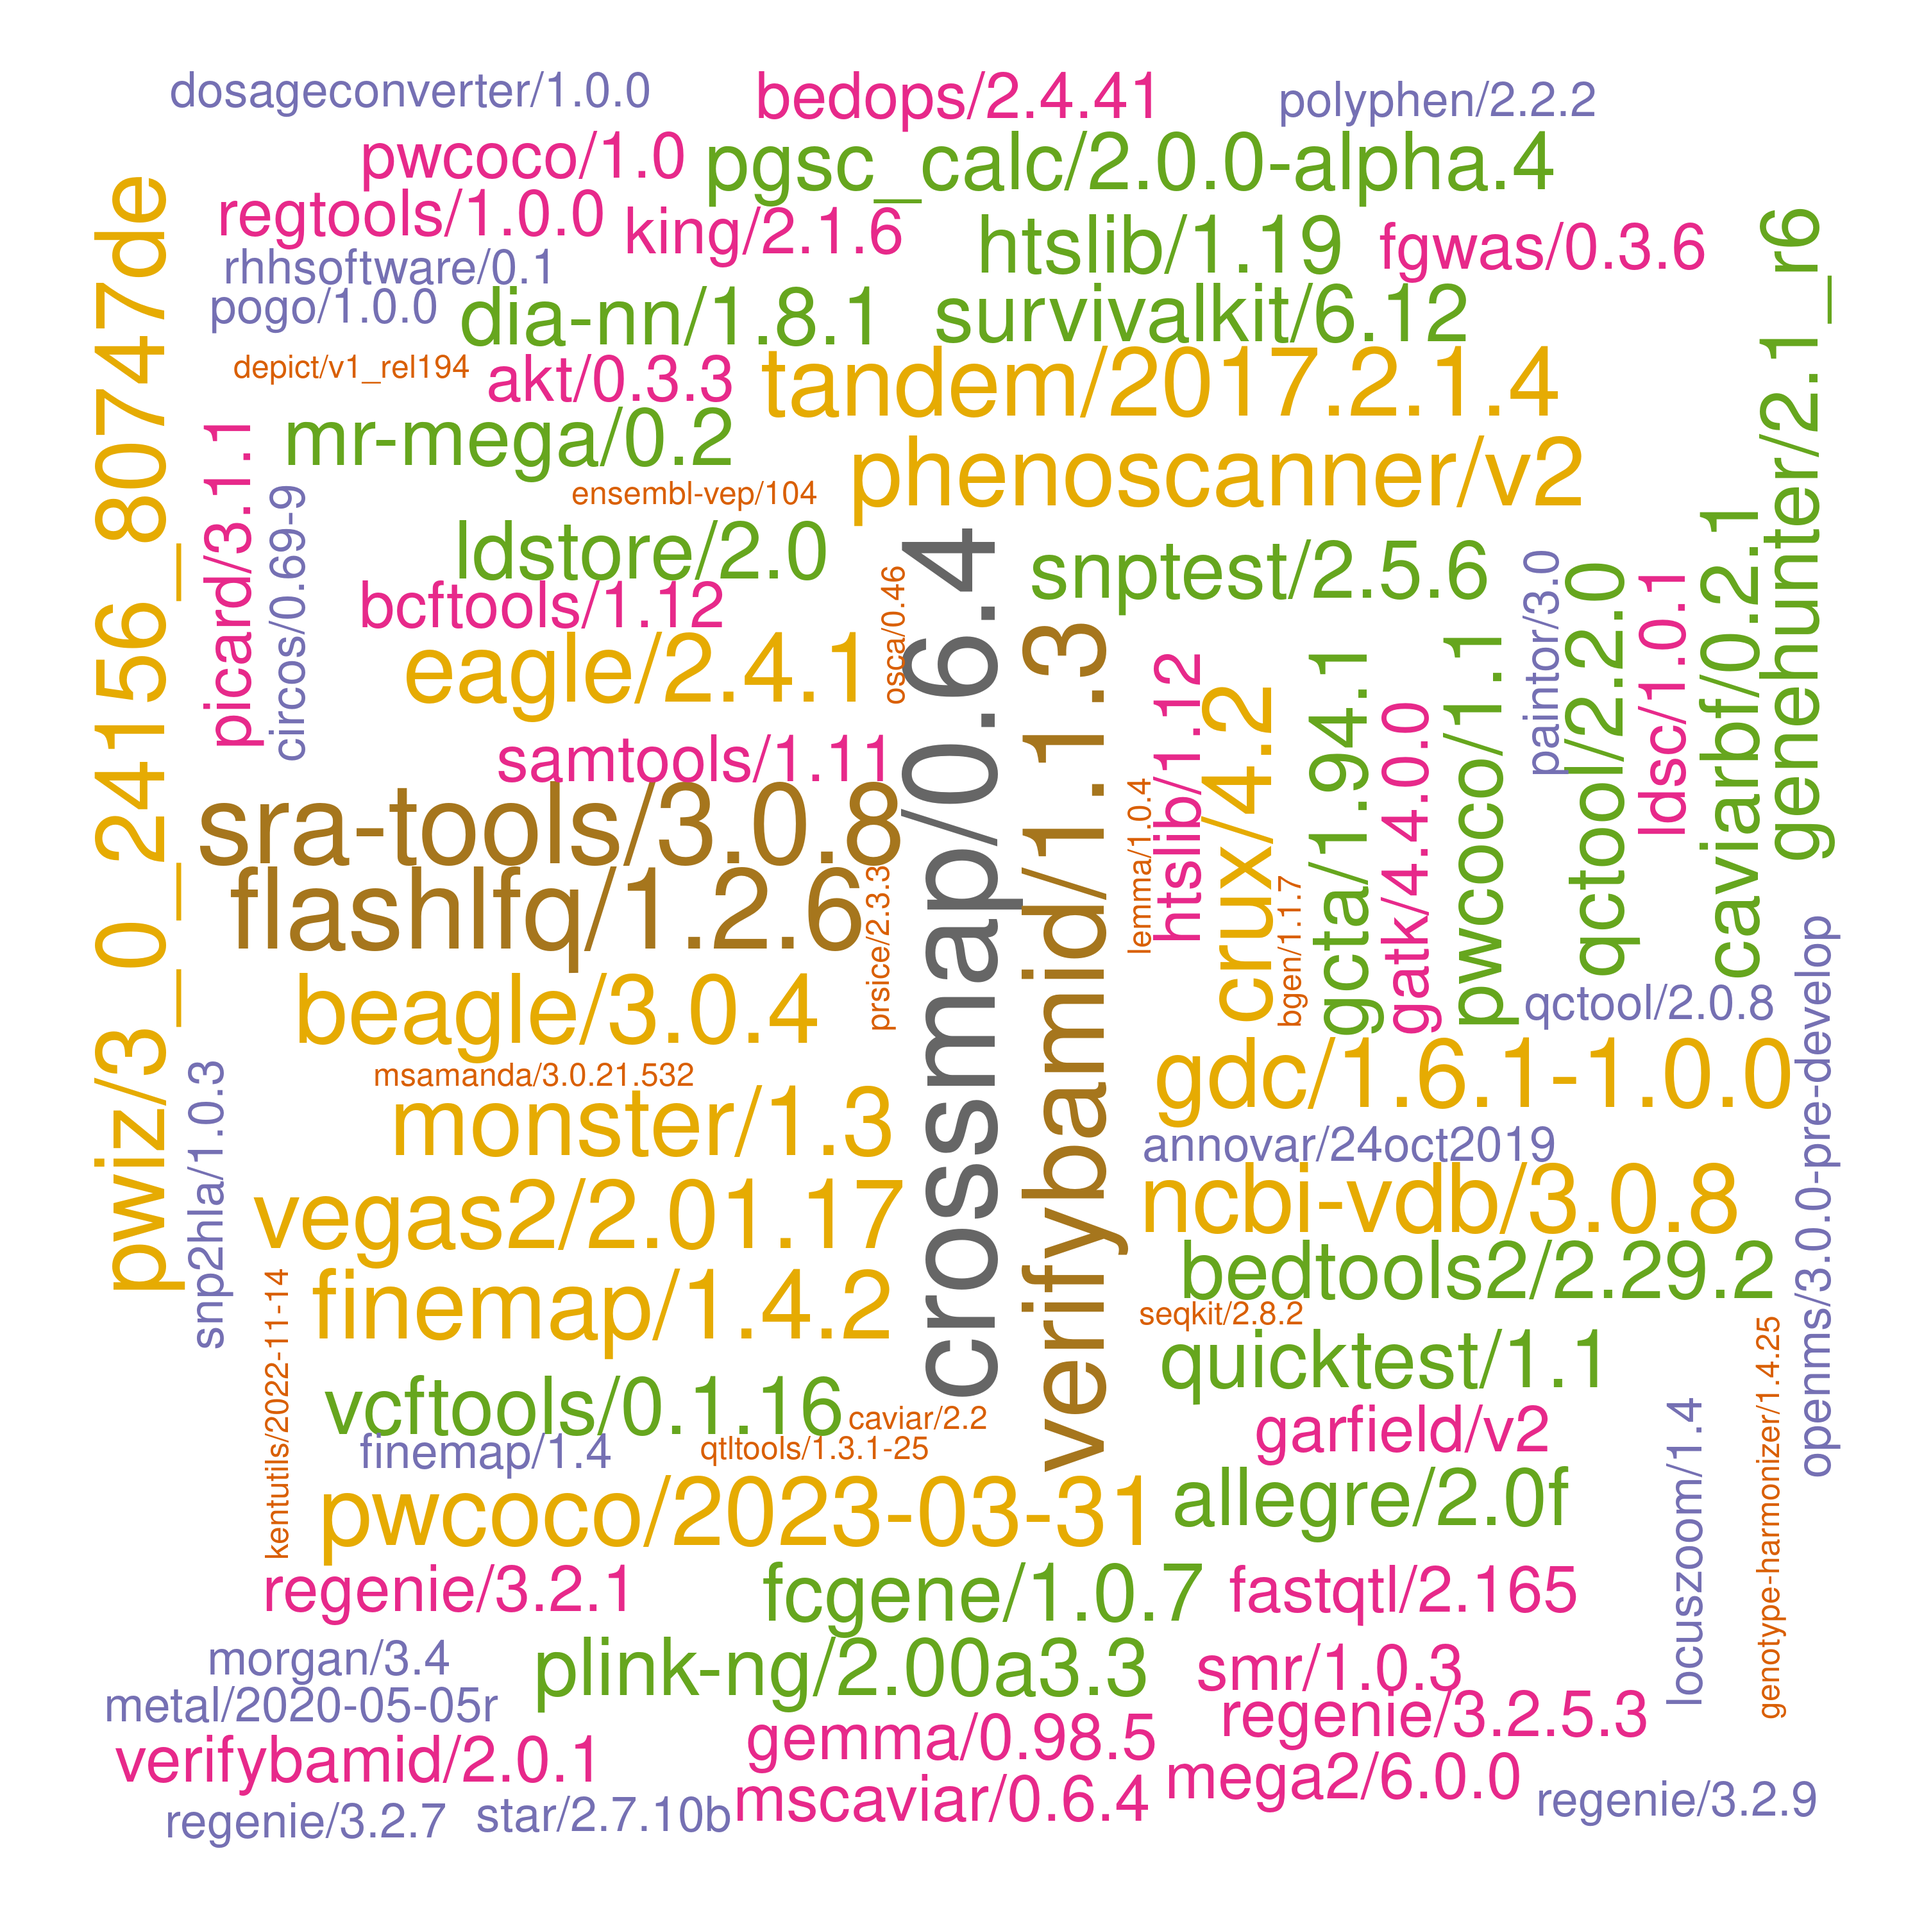
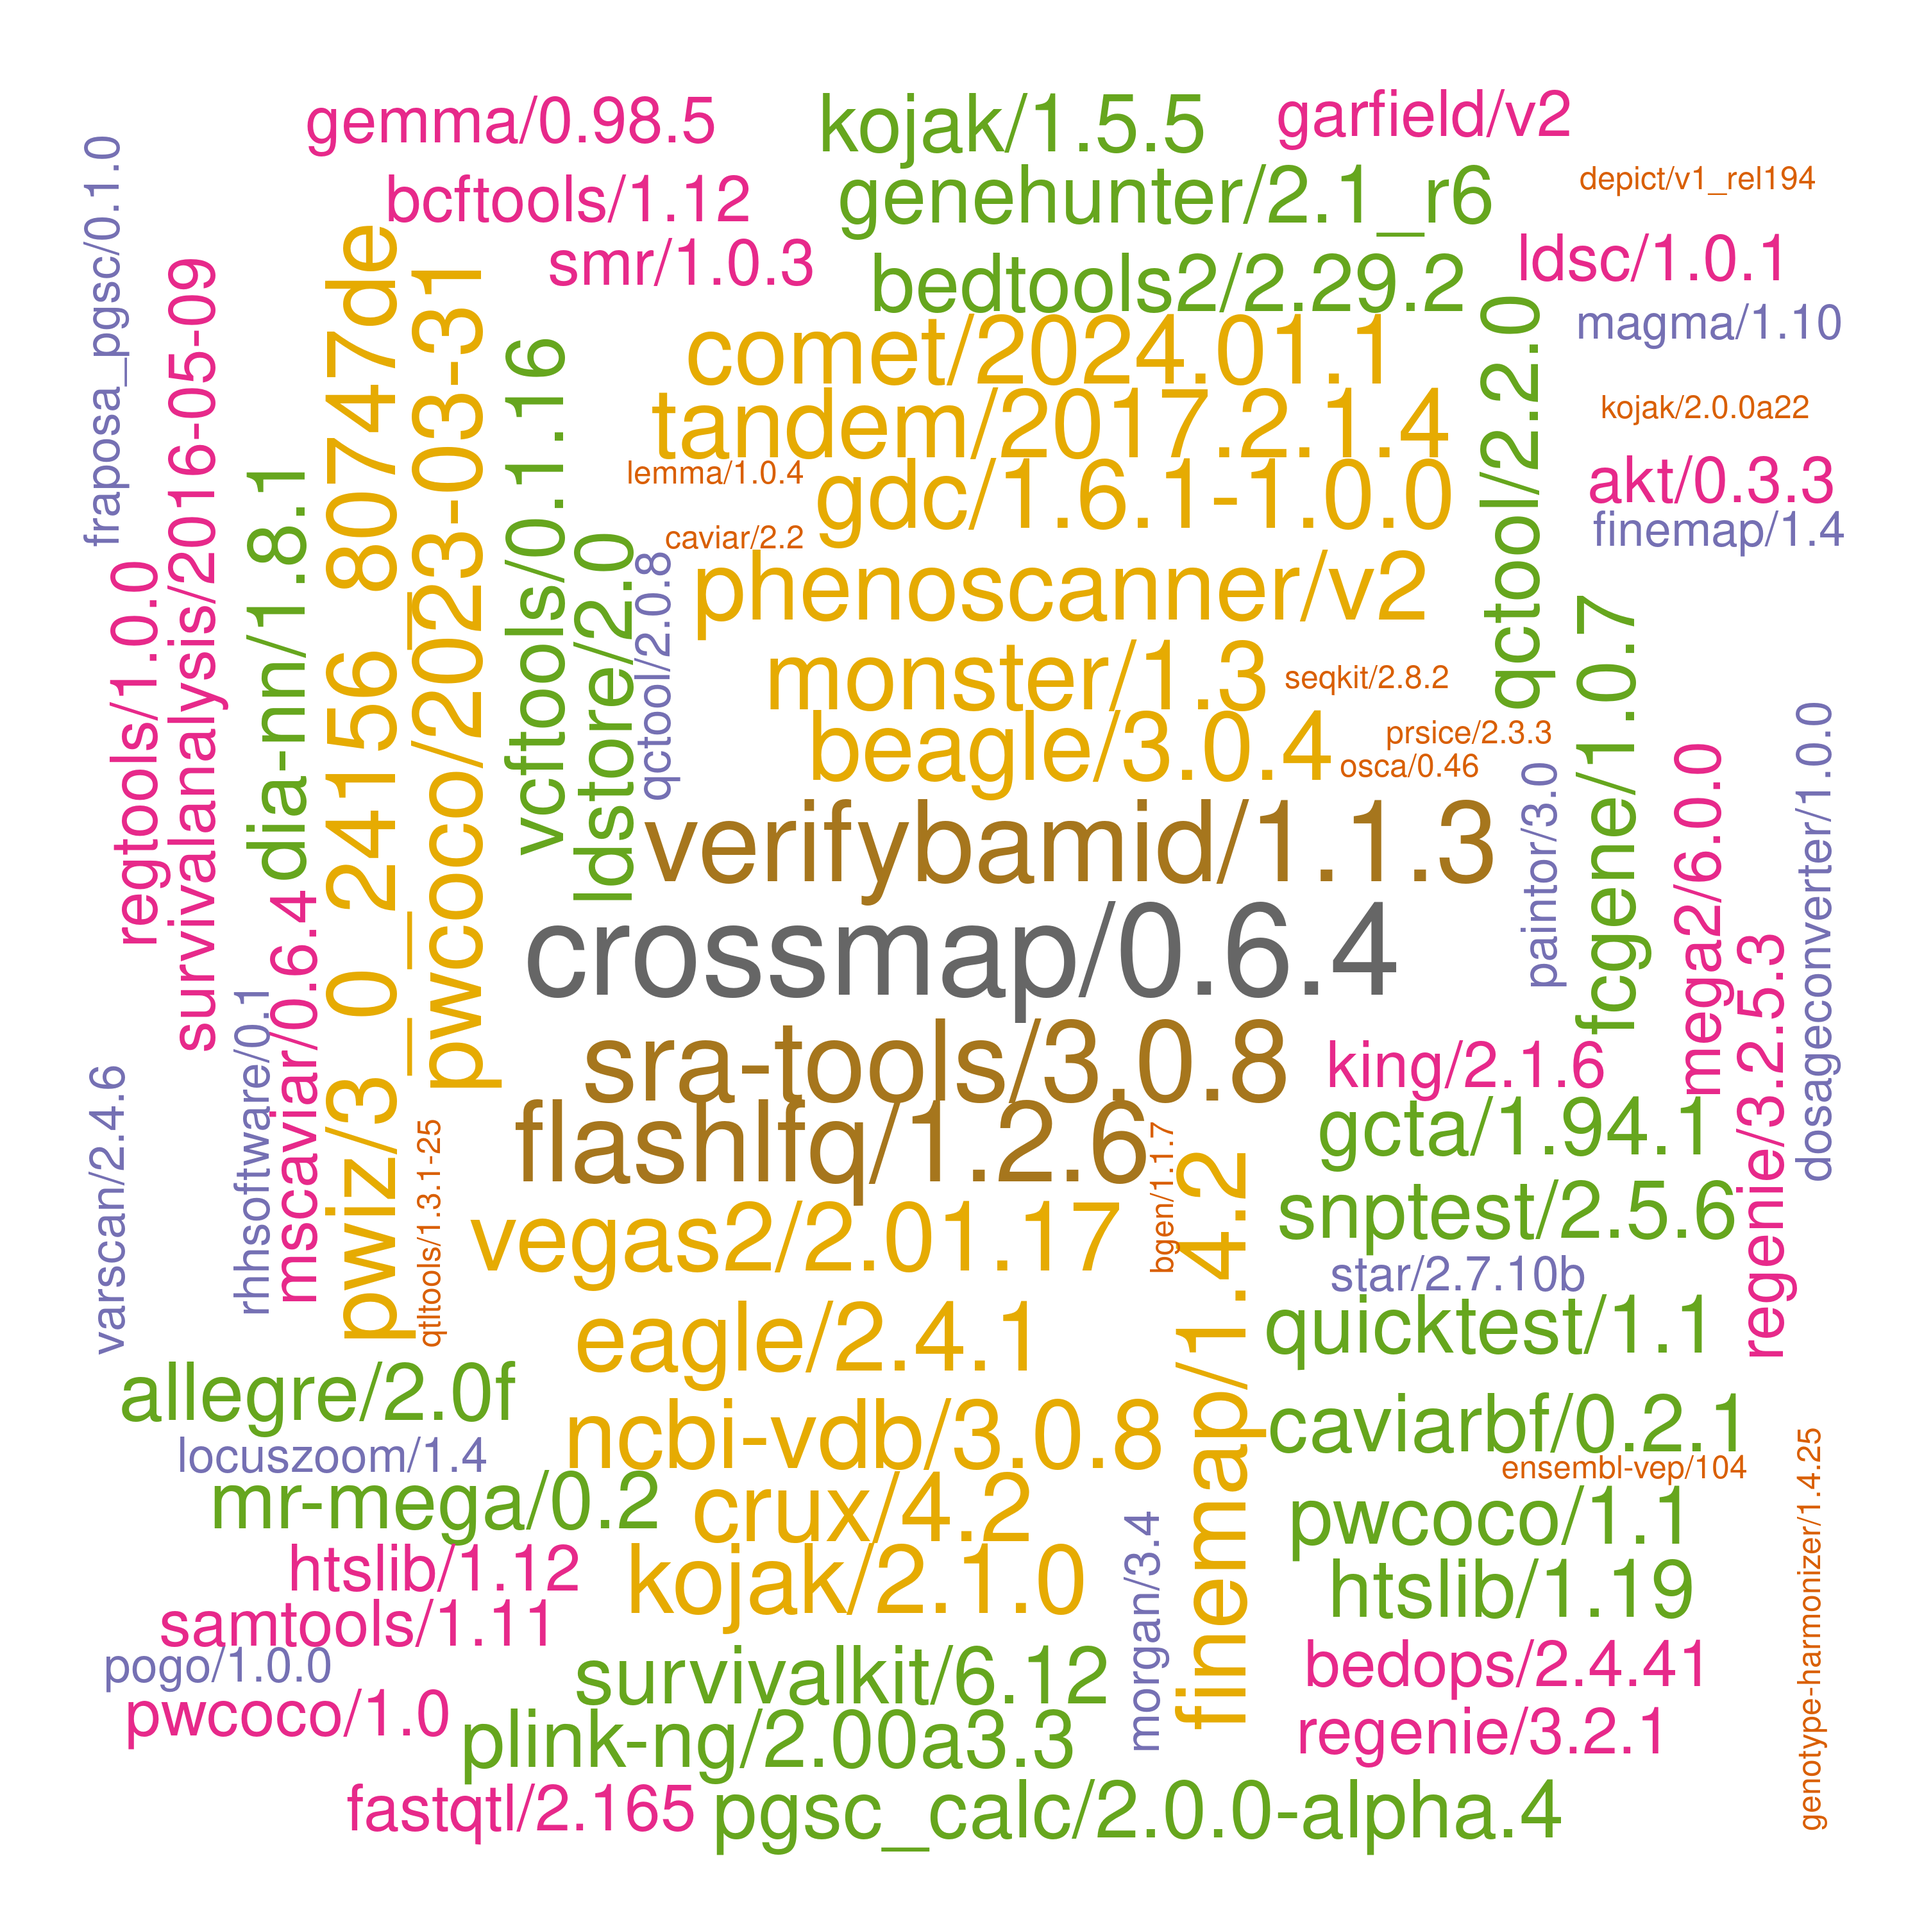
./

Changed region(s): [[0.031, 0.031, 0.961, 0.961]]

diff --git a/systems/ceuadmin.md b/systems/ceuadmin.md
@@ -24,63 +24,64 @@ The current list is as follows,
  [17] "bgen"                  "biobank"               "blat"                  "boltlmm"
  [21] "boost"                 "brotli"                "busybox"               "CaVEMaN"
  [25] "CAVIAR"                "CAVIARBF"              "ccal"                  "circos"
- [29] "citeproc"              "cmake"                 "cppunit"               "crossmap"
- [33] "crux"                  "cryptsetup"            "Cytoscape"             "deno"
- [37] "DEPICT"                "device-mapper"         "diann"                 "DjVuLibre"
- [41] "docbook2X"             "docker"                "DosageConverter"       "dotnet"
- [45] "Eagle"                 "enchant"               "ensembl-vep"           "exiv2"
- [49] "exomeplus"             "expat"                 "FastQTL"               "fcGENE"
- [53] "ffmpeg"                "fgwas"                 "findlib"               "finemap"
- [57] "FlashLFQ"              "fossil"                "fpc"                   "fraposa_pgsc"
- [61] "freesurfer"            "fribidi"               "GARFIELD"              "gatk"
- [65] "gcta"                  "gdal"                  "gdc"                   "geany"
- [69] "GEM"                   "GEMMA"                 "Genotype-Harmonizer"   "gettext"
- [73] "gh"                    "ghc"                   "ghostscript"           "git"
- [77] "git-extras"            "GitKraken"             "glib"                  "glibc"
- [81] "globusconnectpersonal" "glpk"                  "gmp"                   "gnutls"
- [85] "go"                    "googletest"            "graphene"              "GraphicsMagick"
- [89] "GreenAlgorithms4HPC"   "gsl"                   "gtk+"                  "gtksourceview"
- [93] "gtool"                 "hivex"                 "hpg"                   "htslib"
- [97] "hunspell"              "icu"                   "ImageJ"                "ImageMagick"
-[101] "impute"                "JabRef"                "JAGS"                  "jq"
-[105] "json-c"                "KentUtils"             "KING"                  "krb5"
-[109] "lapack"                "ldc2"                  "ldsc"                  "LDstore"
-[113] "LEMMA"                 "libcares"              "libgit2"               "libglvnd"
-[117] "libiconv"              "libidn2"               "libntlm"               "libpng"
-[121] "libseccomp"            "libsodium"             "libssh"                "libssh2"
-[125] "libuv"                 "libxml2"               "libxslt"               "linux"
-[129] "locuszoom"             "LVM2"                  "MAGENTA"               "magma"
-[133] "Mango"                 "Mega2"                 "metal"                 "MetaMorpheus"
-[137] "Miniconda3"            "MONSTER"               "MORGAN"                "MR-MEGA"
-[141] "msamanda"              "MsCAVIAR"              "msms"                  "nano"
-[145] "ncbi-vdb"              "ncurses"               "netbeans"              "nettle"
-[149] "nextflow"              "nlopt"                 "NLopt"                 "node"
-[153] "nspr"                  "ntlm"                  "ocaml"                 "oniguruma"
-[157] "opam"                  "openjdk"               "OpenMS"                "openssh"
-[161] "openssl"               "osca"                  "p7zip-zstd"            "PAINTOR"
-[165] "pandoc"                "pandoc-citeproc"       "pango"                 "parallel"
-[169] "Pascal"                "patchelf"              "pcre2"                 "pdf2djvu"
-[173] "pdfjam"                "peer"                  "pgsc_calc"             "phenoscanner"
-[177] "PhySO"                 "picard"                "pigz"                  "plink"
-[181] "plink-bgi"             "plinkseq"              "podman"                "PoGo"
-[185] "polyphen"              "poppler"               "popt"                  "proj"
-[189] "PRSice"                "pspp"                  "pulsar"                "PWCoCo"
-[193] "pwiz"                  "qctool"                "qemu"                  "qpdf"
-[197] "qt"                    "qtcreator"             "QTLtools"              "quarto"
-[201] "quicktest"             "R"                     "raremetal"             "rclone"
-[205] "readline"              "regenie"               "regtools"              "RHHsoftware"
-[209] "rst2pdf"               "rstudio"               "rtmpdump"              "ruby"
-[213] "rust"                  "samtools"              "Scala"                 "seqkit"
-[217] "shapeit"               "singularity"           "SMR"                   "snakemake"
-[221] "SNP2HLA"               "snptest"               "spread-sheet-widget"   "spyder"
-[225] "sqlite"                "sra-tools"             "sshpass"               "ssw"
-[229] "STAR"                  "stata"                 "SurvivalAnalysis"      "SurvivalKit"
-[233] "Swift"                 "tabix"                 "tandem"                "tatami"
-[237] "thunderbird"           "tidy"                  "trinculo"              "trousers"
-[241] "Typora"                "unbound"               "vala"                  "VarScan"
-[245] "vcftools"              "VEGAS2"                "verifyBamID"           "VSCode"
-[249] "VSCodium"              "vte"                   "wine"                  "xpdf"
-[253] "yaml-cpp"              "Zotero"                "zstd"
+ [29] "citeproc"              "cmake"                 "comet"                 "cppunit"
+ [33] "crossmap"              "crux"                  "cryptsetup"            "Cytoscape"
+ [37] "deno"                  "DEPICT"                "device-mapper"         "diann"
+ [41] "DjVuLibre"             "docbook2X"             "docker"                "DosageConverter"
+ [45] "dotnet"                "Eagle"                 "enchant"               "ensembl-vep"
+ [49] "exiv2"                 "exomeplus"             "expat"                 "FastQTL"
+ [53] "fcGENE"                "ffmpeg"                "fgwas"                 "findlib"
+ [57] "finemap"               "FlashLFQ"              "fossil"                "fpc"
+ [61] "fraposa_pgsc"          "freesurfer"            "fribidi"               "GARFIELD"
+ [65] "gatk"                  "gcta"                  "gdal"                  "gdc"
+ [69] "geany"                 "GEM"                   "GEMMA"                 "Genotype-Harmonizer"
+ [73] "gettext"               "gh"                    "ghc"                   "ghostscript"
+ [77] "git"                   "git-extras"            "GitKraken"             "glib"
+ [81] "glibc"                 "globusconnectpersonal" "glpk"                  "gmp"
+ [85] "gnutls"                "go"                    "googletest"            "graphene"
+ [89] "GraphicsMagick"        "GreenAlgorithms4HPC"   "gsl"                   "gtk+"
+ [93] "gtksourceview"         "gtool"                 "hivex"                 "hpg"
+ [97] "htslib"                "hunspell"              "icu"                   "ImageJ"
+[101] "ImageMagick"           "impute"                "JabRef"                "JAGS"
+[105] "jq"                    "json-c"                "KentUtils"             "KING"
+[109] "kojak"                 "krb5"                  "lapack"                "ldc2"
+[113] "ldsc"                  "LDstore"               "LEMMA"                 "libcares"
+[117] "libgit2"               "libglvnd"              "libiconv"              "libidn2"
+[121] "libntlm"               "libpng"                "libseccomp"            "libsodium"
+[125] "libssh"                "libssh2"               "libuv"                 "libxml2"
+[129] "libxslt"               "linux"                 "locuszoom"             "LVM2"
+[133] "MAGENTA"               "magma"                 "Mango"                 "Mega2"
+[137] "metal"                 "MetaMorpheus"          "Miniconda3"            "MONSTER"
+[141] "MORGAN"                "MR-MEGA"               "msamanda"              "MsCAVIAR"
+[145] "msms"                  "nano"                  "ncbi-vdb"              "ncurses"
+[149] "netbeans"              "nettle"                "nextflow"              "nlopt"
+[153] "NLopt"                 "node"                  "nspr"                  "ntlm"
+[157] "ocaml"                 "oniguruma"             "opam"                  "openjdk"
+[161] "OpenMS"                "openssh"               "openssl"               "osca"
+[165] "p7zip-zstd"            "PAINTOR"               "pandoc"                "pandoc-citeproc"
+[169] "pango"                 "parallel"              "Pascal"                "patchelf"
+[173] "pcre2"                 "pdf2djvu"              "pdfjam"                "peer"
+[177] "pgsc_calc"             "phenoscanner"          "PhySO"                 "picard"
+[181] "pigz"                  "plink"                 "plink-bgi"             "plinkseq"
+[185] "podman"                "PoGo"                  "polyphen"              "poppler"
+[189] "popt"                  "proj"                  "PRSice"                "pspp"
+[193] "pulsar"                "PWCoCo"                "pwiz"                  "qctool"
+[197] "qemu"                  "qpdf"                  "qt"                    "qtcreator"
+[201] "QTLtools"              "quarto"                "quicktest"             "R"
+[205] "raremetal"             "rclone"                "readline"              "regenie"
+[209] "regtools"              "RHHsoftware"           "rst2pdf"               "rstudio"
+[213] "rtmpdump"              "ruby"                  "rust"                  "samtools"
+[217] "Scala"                 "seqkit"                "shapeit"               "singularity"
+[221] "SMR"                   "snakemake"             "SNP2HLA"               "snptest"
+[225] "spread-sheet-widget"   "spyder"                "sqlite"                "sra-tools"
+[229] "sshpass"               "ssw"                   "STAR"                  "stata"
+[233] "SurvivalAnalysis"      "SurvivalKit"           "Swift"                 "tabix"
+[237] "tandem"                "tatami"                "thunderbird"           "tidy"
+[241] "trinculo"              "trousers"              "Typora"                "unbound"
+[245] "vala"                  "VarScan"               "vcftools"              "VEGAS2"
+[249] "verifyBamID"           "VSCode"                "VSCodium"              "vte"
+[253] "wine"                  "xpdf"                  "yaml-cpp"              "Zotero"
+[257] "zstd"
 ```
 
 These are wrapped up as :star::star::star: **[modules](https://modules.readthedocs.io/en/latest/index.html)** :star::star::star:.
@@ -339,6 +340,11 @@ Further information is avaiiable from **/usr/local/Cluster-Apps/ceuadmin/doc/ceu
     | 2024-06-25 | msms/3.2rc-b163             | Genetics            |
     | 2024-07-13 | msamanda/3.0.21.532         | Proteomics          |
     | 2024-07-31 | tandem/2017.2.1.4           | Proteomics          |
+    | 2024-08-11 | comet/2024.01.1             | Proteomics          |
+    | ""         | kojak/2.1.0                 | Proteomics          |
+    | ""         | kojak/1.5.5                 | Proteomics          |
+    | ""         | kojak/2.0.0a22              | Proteomics          |
+
 
     \* CEU or approved users only.
 

diff --git a/systems/setup.md b/systems/setup.md
@@ -309,6 +309,10 @@ All entries are ordered chronologically.
 | 2024-07-23  | Miniconda3/22.9.0                | Generic              |
 | 2024-07-25  | pigz/2.8                         | Generic              |
 | 2024-07-31  | tandem/2017.2.1.4                | Proteomics           |
+| 2024-08-11  | comet/2024.01.1                  | Proteomics           |
+| ""          | kojak/2.1.0                      | Proteomics           |
+| ""          | kojak/1.5.5                      | Proteomics           |
+| ""          | kojak/2.0.0a22                   | Proteomics           |
 
 \* CEU or approved users only.
 
